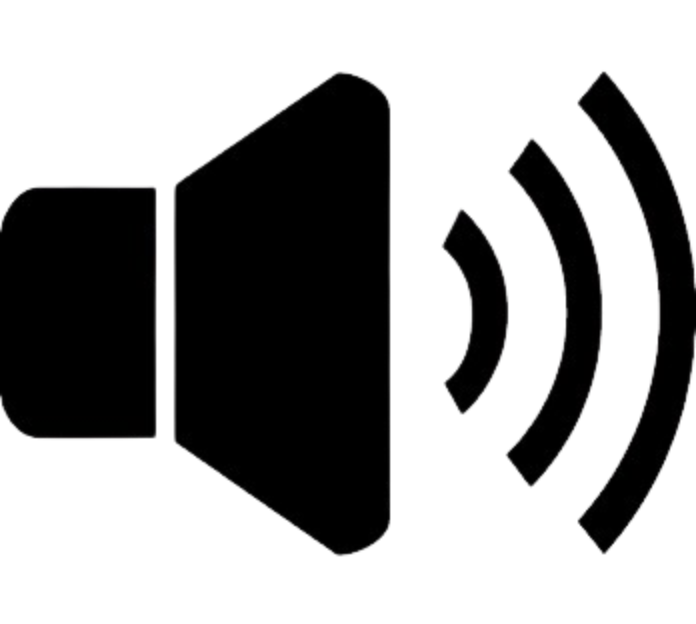
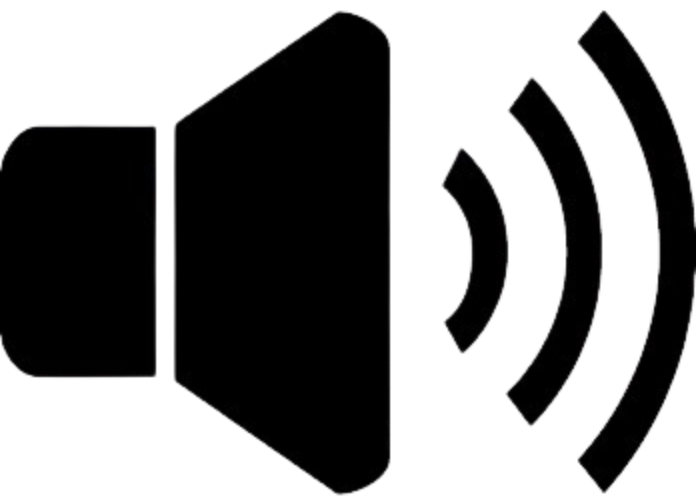
wipTelaInicialIndex

diff --git a/frontend/css/home.css b/frontend/css/home.css
@@ -1,0 +1,129 @@
+/* Banner */
+
+.bannerInicial01{
+    position:relative;
+    height:400px;
+
+    background-image:url("../assets/imagens/BannerInicial01.png");
+    background-size:cover;
+    background-position:center;
+}
+
+.bannerInicial02{
+    position:relative;
+    height:400px;
+
+    background-image:url("../assets/imagens/BannerInicial02.png");
+    background-size:cover;
+    background-position:center;
+}
+
+.overlay{
+    width:100%;
+    height:100%;
+
+    display:flex;
+    justify-content:center;
+    align-items:center;
+
+    background:rgba(0,0,0,0.45);
+}
+
+.overlay h1{
+    color:white;
+    font-size:48px;
+    text-align:center;
+    width:70%;
+}
+
+/* Setas do banner */
+
+.seta{
+    position:absolute;
+    top:50%;
+    transform:translateY(-50%);
+
+    width:50px;
+    height:50px;
+
+    border:none;
+    border-radius:50%;
+
+    background:white;
+    font-size:24px;
+}
+
+.esquerda{
+    left:20px;
+}
+
+.direita{
+    right:20px;
+}
+
+/* Como funciona */
+
+.funcionamento{
+    width:90%;
+    max-width:1200px;
+
+    margin:40px auto;
+    padding:20px;
+
+    background:#dfe0f8;
+    border-radius:10px;
+}
+
+.titulo-box{
+    background:#232A65;
+    color:white;
+
+    text-align:center;
+
+    padding:15px;
+    font-size:24px;
+    font-weight:bold;
+
+    border-radius:5px;
+}
+
+.item{
+    display:flex;
+    align-items:center;
+    gap:20px;
+    padding:25px 15px;
+}
+
+.iconeSom{
+    width: 60px;
+    height: 60px;
+    background-image:url("../assets/icones/IconeSom.png");
+    background-repeat: no-repeat;
+    background-position: center;
+    background-size: contain;
+}
+
+.iconeSemaforo{
+    
+    width: 60px;
+    height: 60px;
+    background-image:url("../assets/icones/IconeSemaforo.png");
+    background-repeat: no-repeat;
+    background-position: center;
+    background-size: contain;
+}
+
+.iconeOuvido{
+    width: 65px;
+    height: 65px;
+    background-image:url("../assets/icones/IconeOuvido.png");
+    background-repeat: no-repeat;
+    background-position: center;
+    background-size: contain;
+}
+
+.item p{
+    font-size:22px;
+    font-weight:bold;
+    margin-left: 30px;
+}

diff --git a/frontend/index.html b/frontend/index.html
@@ -1,0 +1,64 @@
+<!DOCTYPE html>
+<html lang="PT-BR">
+<head>
+    <meta charset="UTF-8">
+    <meta name="viewport" content="width=device-width, initial-scale=1.0">
+    <link rel="stylesheet" href="css/global.css">
+    <link rel="stylesheet" href="css/home.css">
+    <title>SPI - Inicio</title>
+</head>
+<body>
+
+    <!-- Header -->
+    <header>
+        <div class="logo"></div>
+
+        <div class="titulo">
+            Senior Pass Intelligence
+        </div>
+    </header>
+
+    <!-- Banner -->
+    <section class="bannerInicial01">
+        <button class="seta esquerda">&#10094;</button>
+        <button class="seta direita">&#10095;</button>
+    </section>
+
+    <!-- Funcionamento -->
+    <section class="funcionamento">
+
+        <div class="titulo-box">
+            Como o SPI Semáforo Inteligente Funciona
+        </div>
+
+        <div class="item">
+          <div class="iconeSom"></div>
+            <p>
+                Detecção e Monitoramento Inteligente:
+                O sistema utiliza sensores RFID.
+            </p>
+        </div>
+      
+        
+        <div class="item">
+          <div class="iconeSemaforo"></div>
+            <p>
+                Extensão de tempo dinâmica,
+                juntamente com o sensor RFID detecta
+                pedestres com mobilidade reduzida.
+            </p>  
+        </div>
+    
+        <div class="item">       
+          <div class="iconeOuvido"></div>
+            <p>
+                Além do tempo extra, o SPI oferece sinais
+                sonoros adaptativos para deficientes visuais,
+                eliminando barreiras de comunicação.
+            </p>
+        </div>
+
+    </section>
+
+</body>
+</html>

diff --git a/frontend/css/global.css b/frontend/css/global.css
@@ -1,0 +1,52 @@
+/* Reset */
+*{
+    margin:0;
+    padding:0;
+    box-sizing:border-box;
+}
+
+/* Configurações gerais */
+body{
+    font-family: Arial, Helvetica, sans-serif;
+    background:#f4f4f4;
+}
+
+/* Header */
+header{
+    background:#232A65;
+    color:white;
+    height:80px;
+
+    display:flex;
+    justify-content:space-between;
+    align-items:center;
+
+    padding:0 30px;
+}
+
+.logo{
+    width: 280px;
+    height: 160px;
+    background-image: url("../assets/logos/LogoSPI.png");
+    background-repeat: no-repeat;
+    background-position: center;
+    background-size: contain;
+}
+
+.logo h2{
+    font-size:32px;
+}
+
+.logo span{
+    font-size:12px;
+}
+
+.titulo{
+    font-style:italic;
+    font-size:24px;
+}
+
+/* Botões genéricos */
+button{
+    cursor:pointer;
+}
